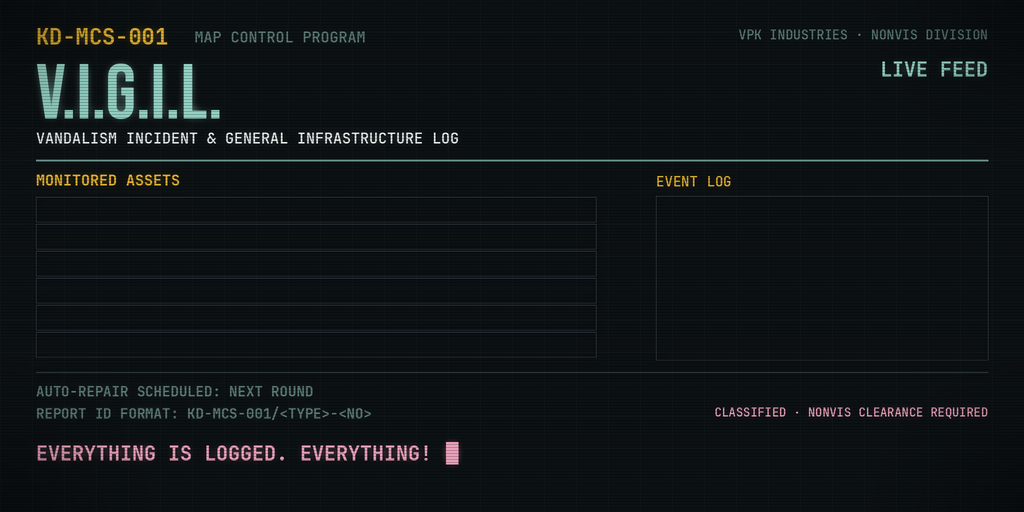
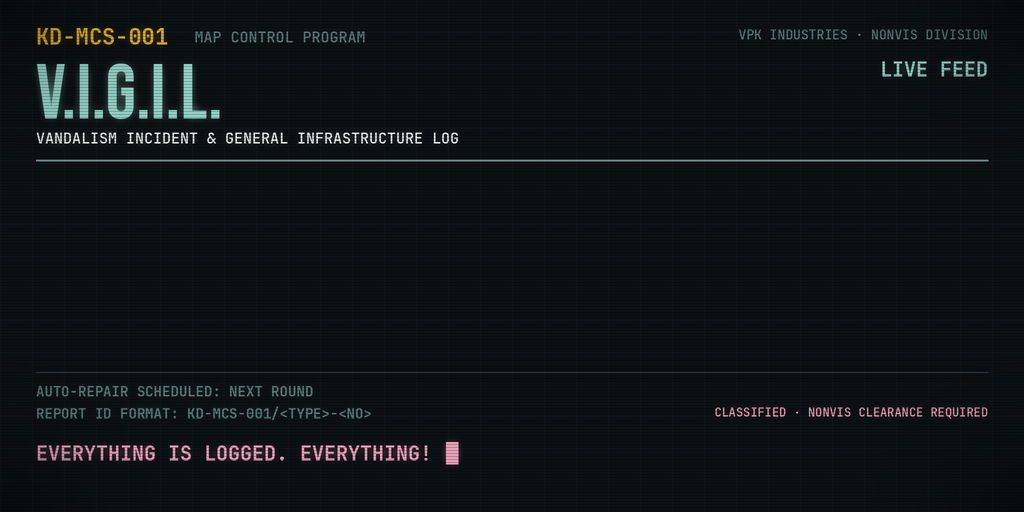
V.I.G.I.L. frame screen: empty middle for point_worldtext lines
Claude-Session: https://claude.ai/code/session_01TPtXe8YEjXWuXNmFgmXabW

Changed region(s): [[0.0312, 0.3125, 0.1875, 0.375], [0.625, 0.3438, 0.7188, 0.375]]

diff --git a/tools/noclip_screens.py b/tools/noclip_screens.py
@@ -134,10 +134,8 @@ def vigil_body(fail=(),frame=False,summer=False):
     # summer (env_summer prefab): daylight, the street lights are on standby
     def body(t):
         y0=px(200); dy=px(27)
-        if frame:
-            for r in range(6):
-                y=y0+r*dy; t.rectangle([M,y-px(3),M+px(560),y+px(22)],outline=STEEL_L+(255,),width=1)
-        else:
+        if frame: return   # empty middle: the lamp lines are written in-game with point_worldtext
+        if True:
             for r,a in enumerate(ASSETS):
                 y=y0+r*dy; bad=a in fail
                 t.text((M,y),"[FAIL]" if bad else "[ OK ]",font=mono(16),fill=RED if bad else TEAL)
@@ -159,7 +157,7 @@ for name,fail,frame,summer in (("",(),False,False),("_incident",("LMP-002",),Fal
     nf=len(fail)
     right=[("LIVE FEED",TEAL)] if frame else [(f"ASSETS ONLINE  {6-nf:02d}/06",TEAL if not nf else YELLOW),("SYSTEM STATUS: "+("NOMINAL" if not nf else "INCIDENT"),TEAL if not nf else RED)]
     screen("KD-MCS-001","MAP CONTROL PROGRAM","V.I.G.I.L.","VANDALISM INCIDENT & GENERAL INFRASTRUCTURE LOG",
-           right,"MONITORED ASSETS",vigil_body(fail,frame,summer),
+           right,"" if frame else "MONITORED ASSETS",vigil_body(fail,frame,summer),
            ["AUTO-REPAIR SCHEDULED: NEXT ROUND","REPORT ID FORMAT: KD-MCS-001/<TYPE>-<NO>"],
            "EVERYTHING IS LOGGED. EVERYTHING!",f"noclip/kd-mcs-001_vigil{name}_1024x512.png")
 print('ok')

diff --git a/README.md b/README.md
@@ -498,7 +498,7 @@ Screen textures (1024×512, glowing monitors), in [`assets/screens/`](./assets/s
 | `kd-wx-003_stratos_summer_1024x512.png` | S.T.R.A.T.O.S. for the `env_summer` prefab: core on standby, emitter idle (0.0 GW), *"Emitter idle. Waiting for nightfall..."* |
 | `kd-mcs-001_vigil_1024x512.png` | V.I.G.I.L., all assets online |
 | `kd-mcs-001_vigil_incident_1024x512.png` | V.I.G.I.L., one incident |
-| `kd-mcs-001_vigil_frame_1024x512.png` | V.I.G.I.L., empty frame for `point_worldtext` lines |
+| `kd-mcs-001_vigil_frame_1024x512.png` | V.I.G.I.L. frame: header and footer only, the middle is a plain empty background, so every lamp can be logged separately in-game with `point_worldtext` lines |
 | `kd-mcs-001_vigil_summer_1024x512.png` | V.I.G.I.L. for the `env_summer` prefab: all six street lights on standby in daylight; event log: *"Sun: not a monitored asset"* |
 | `kd-mcs-001_vigil_screensaver_1024x512.png` | V.I.G.I.L. screen saver: the Nonvis eye drifting across the idle screen with a fading trail; *"Screen idle. Monitoring is not."* |
 
